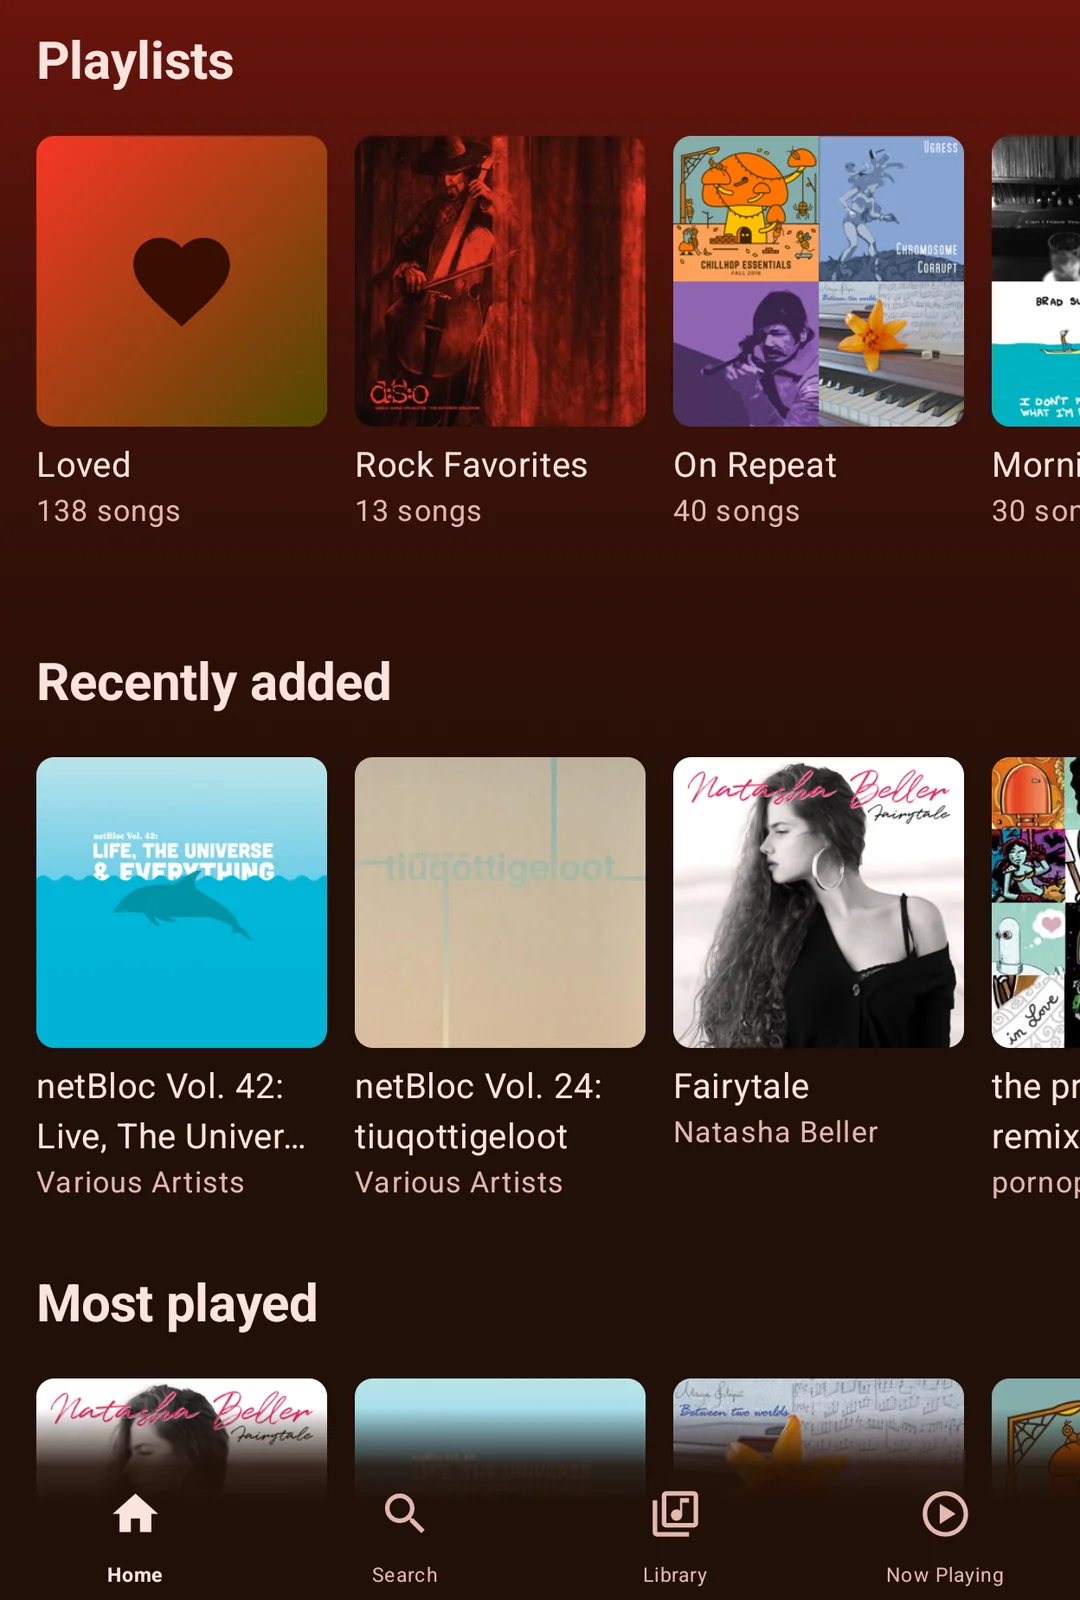
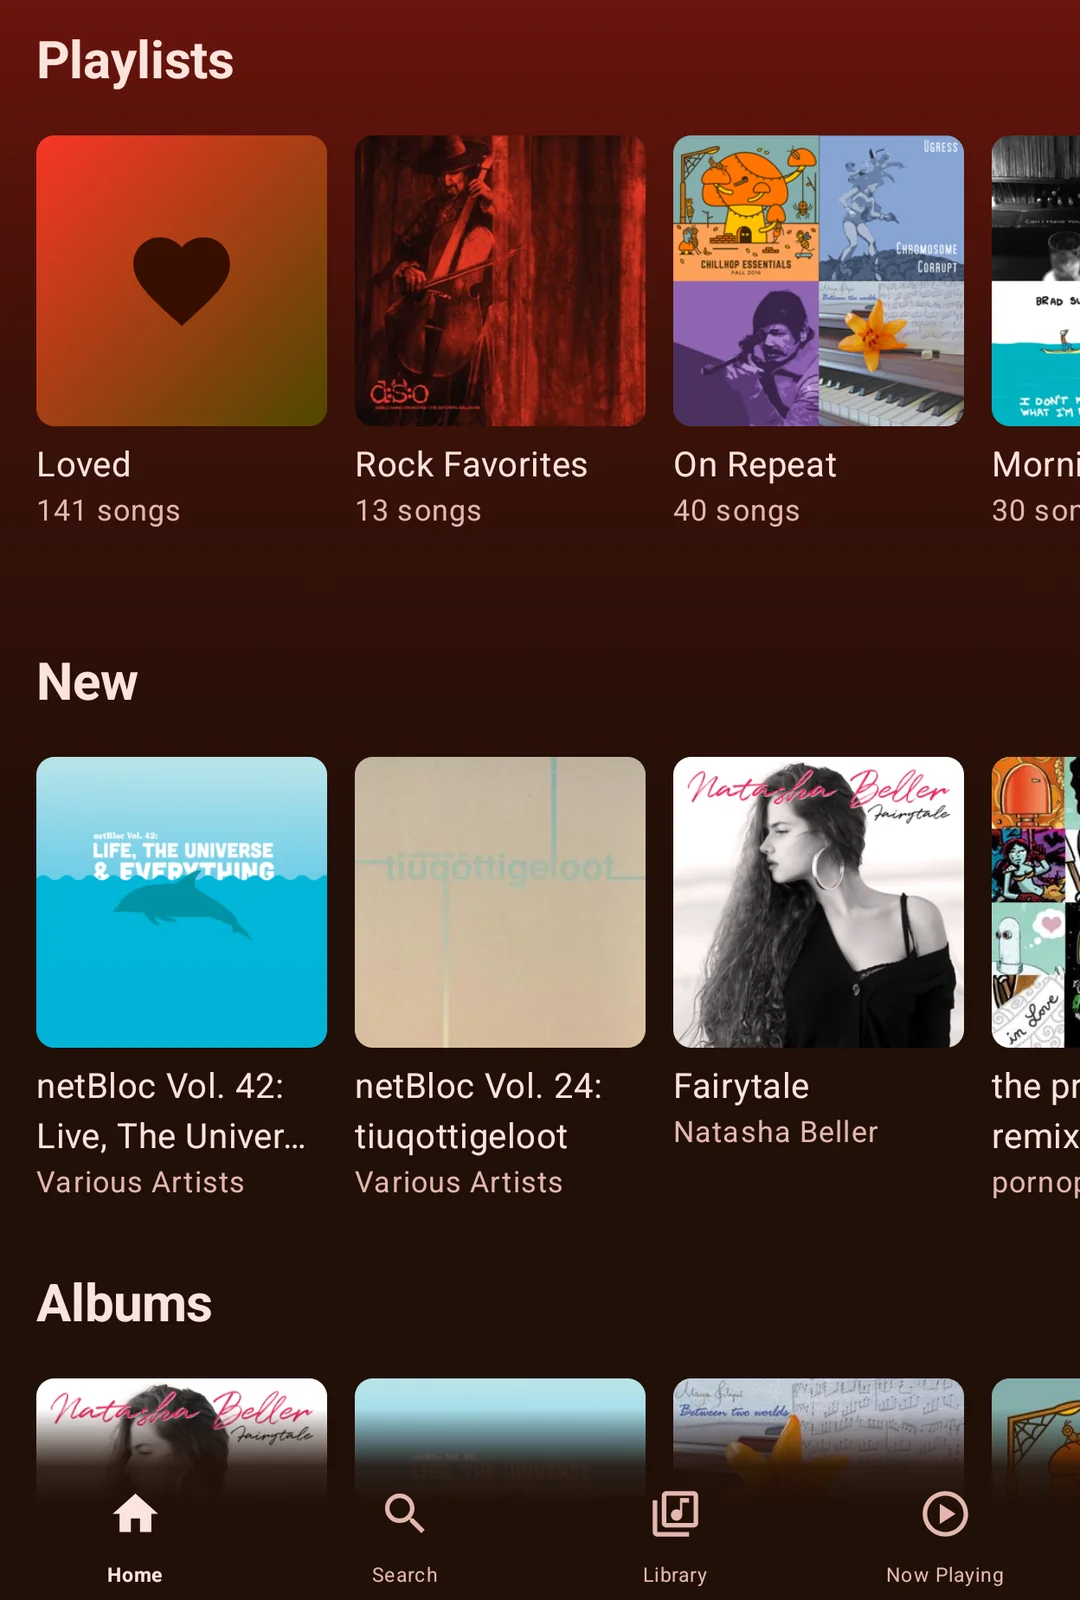
Home rows renamed; album saving removed
Home's shelves are now Playlists, Shared, New, Albums and Artists (the
last three reuse Library's labels; "New" is translated for every
language). The album heart, the Saved albums shelf and Library's
"Recently saved" album sort are gone: downloads, playlists and Loved
already cover keeping music. Album stars stay on the server untouched.
Screenshots 2 and 9 retaken.

diff --git a/app/src/main/java/eu/bradshaw/seidr/ui/screens/HomeScreen.kt b/app/src/main/java/eu/bradshaw/seidr/ui/screens/HomeScreen.kt
@@ -65,10 +65,9 @@ import kotlinx.coroutines.Job
 import kotlinx.coroutines.async
 import kotlinx.coroutines.delay
 import kotlinx.coroutines.flow.collectLatest
-import kotlinx.coroutines.flow.drop
 import kotlinx.coroutines.launch
 
-data class HomeData(val newest: List<Album>, val frequent: List<Album>, val artists: List<Artist>, val starred: List<Album>)
+data class HomeData(val newest: List<Album>, val frequent: List<Album>, val artists: List<Artist>)
 
 /** How many a Home shelf shows; its arrow opens the rest in Library. */
 private const val SHELF = 15
@@ -91,13 +90,6 @@ class HomeVm(private val graph: Graph) : ViewModel() {
                 load(quiet = true)
             }
         }
-        // An album saved or unsaved, here or (via the live feed) elsewhere: just that shelf.
-        viewModelScope.launch {
-            graph.browse.starredAlbums.drop(1).collectLatest {
-                val starred = runCatching { graph.browse.albumList("starred", SHELF) }.getOrNull() ?: return@collectLatest
-                data = data?.copy(starred = starred)
-            }
-        }
     }
 
     /** [quiet]: a live update, so no refresh spinner, and a list that fails keeps what it showed. */
@@ -109,7 +101,7 @@ class HomeVm(private val graph: Graph) : ViewModel() {
             fun list(type: String, size: Int = SHELF) = async { runCatching { graph.browse.albumList(type, size) }.getOrNull() }
             // Artists' plays are their albums' (as Library's Most played sorts them), so
             // fetch well past the albums shelf: enough to rank everyone who's been played.
-            val newest = list("newest"); val frequent = list("frequent", 500); val starred = list("starred")
+            val newest = list("newest"); val frequent = list("frequent", 500)
             val artists = async { runCatching { graph.browse.artists() }.getOrNull() }
             launch { runCatching { graph.browse.refreshPlaylists() } }
             val played = frequent.await()
@@ -121,7 +113,6 @@ class HomeVm(private val graph: Graph) : ViewModel() {
                 newest.await() ?: old?.newest.orEmpty(),
                 played?.take(SHELF) ?: old?.frequent.orEmpty(),
                 topArtists ?: old?.artists.orEmpty(),
-                starred.await() ?: old?.starred.orEmpty(),
             )
             refreshing = false
         }
@@ -140,10 +131,9 @@ fun HomeScreen() {
     val kid by graph.browseKids.rules.collectAsStateWithLifecycle()
     val starred by graph.browse.starredSongs.collectAsStateWithLifecycle()
     val lastLoved by graph.browse.lastLoved.collectAsStateWithLifecycle()
-    val recentlyAdded = stringResource(R.string.home_recently_added)
-    val mostPlayed = stringResource(R.string.home_most_played)
-    val savedAlbums = stringResource(R.string.home_saved_albums)
-    val mostPlayedArtists = stringResource(R.string.home_most_played_artists)
+    val newest = stringResource(R.string.home_new)
+    val mostPlayed = stringResource(R.string.library_tab_albums)
+    val mostPlayedArtists = stringResource(R.string.library_tab_artists)
     val settings = graph.settings
     Column(Modifier.fillMaxSize()) {
         RefreshBox(vm.refreshing && vm.data != null, onRefresh = vm::load, modifier = Modifier.weight(1f)) {
@@ -191,7 +181,7 @@ fun HomeScreen() {
                     }
                 }
                 if (shared.isNotEmpty()) {
-                    item(key = "h:shared") { SectionHeader(stringResource(R.string.home_shared_playlists)) }
+                    item(key = "h:shared") { SectionHeader(stringResource(R.string.library_shared)) }
                     item(key = "s:shared") {
                         val shelf = PlaylistSort.RECENT.sort(shared, lastPlayed, loved = null).filterNotNull().take(SHELF)
                         LazyRow(state = shelfState(shelf.firstOrNull()?.id), contentPadding = PaddingValues(horizontal = 10.dp)) {
@@ -204,7 +194,7 @@ fun HomeScreen() {
                 }
                 // Each arrow opens Library in the shelf's own order.
                 fun albums(sort: AlbumSort) { settings.setAlbumSort(sort); actions.openLibrary(LibTab.ALBUMS) }
-                albumShelf(recentlyAdded, d?.newest.orEmpty(), { actions.open(Route.Album(it)) }) { albums(AlbumSort.ADDED) }
+                albumShelf(newest, d?.newest.orEmpty(), { actions.open(Route.Album(it)) }) { albums(AlbumSort.ADDED) }
                 albumShelf(mostPlayed, d?.frequent.orEmpty(), { actions.open(Route.Album(it)) }) { albums(AlbumSort.PLAYS) }
                 val artists = d?.artists.orEmpty()
                 if (artists.isNotEmpty()) {
@@ -219,7 +209,6 @@ fun HomeScreen() {
                         }
                     }
                 }
-                albumShelf(savedAlbums, d?.starred.orEmpty(), { actions.open(Route.Album(it)) }) { albums(AlbumSort.SAVED) }
             }
         }
     }

diff --git a/app/src/main/java/eu/bradshaw/seidr/ui/screens/AlbumScreen.kt b/app/src/main/java/eu/bradshaw/seidr/ui/screens/AlbumScreen.kt
@@ -4,11 +4,6 @@ import androidx.compose.foundation.clickable
 import androidx.compose.foundation.layout.aspectRatio
 import androidx.compose.foundation.layout.padding
 import androidx.compose.foundation.lazy.itemsIndexed
-import androidx.compose.material.icons.Icons
-import androidx.compose.material.icons.filled.Favorite
-import androidx.compose.material.icons.filled.FavoriteBorder
-import androidx.compose.material3.Icon
-import androidx.compose.material3.IconButton
 import androidx.compose.material3.MaterialTheme
 import androidx.compose.material3.Text
 import androidx.compose.runtime.Composable
@@ -76,13 +71,10 @@ fun AlbumScreen(id: String) {
     val graph = actions.graph
     val vm = viewModel(key = "album:$id") { AlbumVm(graph, id) }
     val ui by graph.player.ui.collectAsStateWithLifecycle()
-    val starredAlbums by graph.browse.starredAlbums.collectAsStateWithLifecycle()
 
     LoadContent(vm.state, vm::load) { album ->
         val songs = album.song
         val discs = songs.mapNotNull { it.discNumber }.distinct().size > 1
-        val saved = album.id in starredAlbums
-        val unreachable = stringResource(R.string.album_unreachable)
         // Albums take Now Playing's colours from the cover; playlists and artists keep the theme.
         ArtPage(album.coverArt) { CollectionLayout(
             title = album.name,
@@ -104,16 +96,6 @@ fun AlbumScreen(id: String) {
             onPlay = { graph.albumPlays.record(album); actions.player.playContext(songs, 0, album.name, shuffle = false) },
             offline = OfflineSource(SourceType.sourceId(SourceType.ALBUM, album.id), SourceType.ALBUM, album.id, album.name, coverArt = album.coverArt),
             trackCount = songs.size,
-            topActions = {
-                if (!graph.readOnly) IconButton(onClick = {
-                    actions.launch {
-                        if (!graph.browse.setAlbumStarred(album.id, !saved)) actions.toast(unreachable)
-                    }
-                }) {
-                    Icon(if (saved) Icons.Filled.Favorite else Icons.Filled.FavoriteBorder, stringResource(if (saved) R.string.album_remove_from_library else R.string.album_save_to_library),
-                        tint = if (saved) MaterialTheme.colorScheme.primary else MaterialTheme.colorScheme.onSurface)
-                }
-            },
         ) {
             var lastDisc: Int? = null
             songs.forEachIndexed { i, song ->

diff --git a/app/src/main/java/eu/bradshaw/seidr/data/LibrarySort.kt b/app/src/main/java/eu/bradshaw/seidr/data/LibrarySort.kt
@@ -50,16 +50,9 @@ enum class PlaylistSort(val key: String) {
 data class LovedAt(val played: Long?, val lastLoved: String?)
 
 enum class AlbumSort(val key: String) {
-    NAME("name"), ARTIST("artist"), ADDED("added"), YEAR("year"), PLAYS("plays"),
-    /** Most recently saved first, then the rest. */
-    SAVED("saved");
+    NAME("name"), ARTIST("artist"), ADDED("added"), YEAR("year"), PLAYS("plays");
 
-    /**
-     * [saved]: the albums saved now (`Library.starredAlbums`), which beats each
-     * album's own `starred` (the all-albums list is cached, so it can be stale).
-     * Empty means not known yet, so `starred` alone decides.
-     */
-    fun sort(albums: List<Album>, saved: Set<String> = emptySet()): List<Album> {
+    fun sort(albums: List<Album>): List<Album> {
         val artist = nameOrder<Album> { it.artistLine }
         val name = nameOrder<Album> { it.name }
         val rest = artist.then(name)
@@ -70,14 +63,6 @@ enum class AlbumSort(val key: String) {
                 ADDED -> compareByDescending<Album> { it.created.orEmpty() }.then(rest)
                 YEAR -> compareByDescending<Album> { it.year ?: 0 }.then(rest)
                 PLAYS -> compareByDescending<Album> { it.playCount ?: 0L }.then(rest)
-                SAVED -> compareByDescending<Album> {
-                    when {
-                        saved.isEmpty() -> it.starred.orEmpty()
-                        it.id !in saved -> ""
-                        // Saved since the list was fetched: newest of all.
-                        else -> it.starred ?: "~"
-                    }
-                }.then(rest)
             }
         )
     }

diff --git a/app/src/main/java/eu/bradshaw/seidr/data/Library.kt b/app/src/main/java/eu/bradshaw/seidr/data/Library.kt
@@ -95,8 +95,6 @@ class Library(
     /** When the newest loved song was loved (ISO 8601), for sorting Loved by "Recently updated". */
     val lastLoved: StateFlow<String?> = _lastLoved.asStateFlow()
 
-    private val _starredAlbums = MutableStateFlow<Set<String>>(emptySet())
-    val starredAlbums: StateFlow<Set<String>> = _starredAlbums.asStateFlow()
 
     private val _playlistEdited = MutableSharedFlow<String>(extraBufferCapacity = 64)
     /**
@@ -248,7 +246,6 @@ class Library(
         val songs = s?.song.orEmpty().sortedByDescending { it.starred ?: "" }
         _starredSongs.value = songs.map { it.id }.toSet()
         _lastLoved.value = songs.firstOrNull()?.starred
-        _starredAlbums.value = s?.album.orEmpty().map { it.id }.toSet()
         return kid?.songs(songs) ?: songs
     }
 
@@ -275,17 +272,6 @@ class Library(
             true
         } catch (e: Exception) {
             _starredSongs.update { if (starred) it - id else it + id }
-            false
-        }
-    }
-
-    suspend fun setAlbumStarred(id: String, starred: Boolean): Boolean {
-        _starredAlbums.update { if (starred) it + id else it - id }
-        return try {
-            if (starred) client.strict.starAlbum(id).ok() else client.strict.unstarAlbum(id).ok()
-            true
-        } catch (e: Exception) {
-            _starredAlbums.update { if (starred) it - id else it + id }
             false
         }
     }
@@ -321,7 +307,6 @@ class Library(
         albumsCache = null
         _starredSongs.value = emptySet()
         _lastLoved.value = null
-        _starredAlbums.value = emptySet()
     }
 }
 

diff --git a/app/src/main/java/eu/bradshaw/seidr/ui/screens/LibraryScreen.kt b/app/src/main/java/eu/bradshaw/seidr/ui/screens/LibraryScreen.kt
@@ -229,7 +229,6 @@ fun LibraryScreen() {
     val playlistSort by graph.settings.playlistsSort.collectAsStateWithLifecycle()
     val artistSort by graph.settings.artistSort.collectAsStateWithLifecycle()
     val albumSort by graph.settings.albumSort.collectAsStateWithLifecycle()
-    val savedAlbums by graph.browse.starredAlbums.collectAsStateWithLifecycle()
     val lastPlayed by graph.playlistPlays.lastPlayed.collectAsStateWithLifecycle()
     var creating by rememberSaveable { mutableStateOf(false) }
     val grid by graph.settings.libraryGrid.collectAsStateWithLifecycle()
@@ -361,7 +360,7 @@ fun LibraryScreen() {
                 LibTab.ALBUMS -> LoadContent(vm.albums, { vm.load(true) }) { all ->
                     val items = all
                         .filter { (!downloadedOnly || SourceType.sourceId(SourceType.ALBUM, it.id) in sources) && matches(it.name, it.artistLine) }
-                        .let { albumSort.sort(it, savedAlbums) }
+                        .let { albumSort.sort(it) }
                         .map { a ->
                             LibItem(a.id, a.name, listOfNotNull(a.artistLine.takeIf { it.isNotBlank() }, a.year?.toString()).joinToString(" · "),
                                 gridSubtitle = a.artistLine,

diff --git a/app/src/test/java/eu/bradshaw/seidr/data/LibrarySortTest.kt b/app/src/test/java/eu/bradshaw/seidr/data/LibrarySortTest.kt
@@ -47,19 +47,6 @@ class LibrarySortTest {
         assertEquals(listOf("a1", "b1", "b2"), AlbumSort.ARTIST.sort(albums).map { it.id })
     }
 
-    @Test fun savedTrustsTheLiveSetOverTheCachedList() {
-        val list = listOf(
-            Album("old", name = "A", starred = "2024-01-01T00:00:00Z"),
-            Album("new", name = "B", starred = "2026-01-01T00:00:00Z"),
-            Album("unsaved", name = "C", starred = "2026-06-01T00:00:00Z"),
-            Album("just", name = "D"),
-            Album("never", name = "E"),
-        )
-        assertEquals(listOf("just", "new", "old", "unsaved", "never"),
-            AlbumSort.SAVED.sort(list, saved = setOf("old", "new", "just")).map { it.id })
-        assertEquals(listOf("unsaved", "new", "old", "just", "never"), AlbumSort.SAVED.sort(list).map { it.id })
-    }
-
     @Test fun artistPlaysAreTheirAlbums() {
         val artists = listOf(Artist("x", name = "X"), Artist("y", name = "Y"))
         val plays = ArtistSort.plays(listOf(Album("1", artistId = "y", playCount = 2), Album("2", artistId = "y", playCount = 2), Album("3", artistId = "x", playCount = 3)))

diff --git a/app/src/main/java/eu/bradshaw/seidr/data/api/SubsonicApi.kt b/app/src/main/java/eu/bradshaw/seidr/data/api/SubsonicApi.kt
@@ -81,8 +81,6 @@ interface SubsonicApi {
 
     @FormUrlEncoded @POST("star.view") suspend fun star(@Field("id") id: String): Envelope
     @FormUrlEncoded @POST("unstar.view") suspend fun unstar(@Field("id") id: String): Envelope
-    @FormUrlEncoded @POST("star.view") suspend fun starAlbum(@Field("albumId") id: String): Envelope
-    @FormUrlEncoded @POST("unstar.view") suspend fun unstarAlbum(@Field("albumId") id: String): Envelope
 
     @FormUrlEncoded @POST("scrobble.view")
     suspend fun scrobble(@Field("id") id: String, @Field("time") time: Long, @Field("submission") submission: Boolean): Envelope

diff --git a/app/src/main/java/eu/bradshaw/seidr/ui/components/SortButton.kt b/app/src/main/java/eu/bradshaw/seidr/ui/components/SortButton.kt
@@ -44,7 +44,6 @@ fun AlbumSort.label(): Int = when (this) {
     AlbumSort.ADDED -> R.string.library_sort_added
     AlbumSort.YEAR -> R.string.library_sort_year
     AlbumSort.PLAYS -> R.string.library_sort_most_played
-    AlbumSort.SAVED -> R.string.library_sort_saved
 }
 
 fun ArtistSort.label(): Int = when (this) {

diff --git a/CHANGELOG.md b/CHANGELOG.md
@@ -6,6 +6,8 @@ them, not how.
 
 ## 1.6.13
 
+- Home's rows have shorter names: Playlists, Shared, New, Albums and Artists.
+- Albums no longer have a heart of their own, and Home's Saved albums row is gone. To keep an album, download it or add it to a playlist; Loved songs are unchanged.
 - Swiping back from an album, the navigation bar's colours now follow the page as it slides away.
 - On the Fold's inner screen and other wide screens, swiping back from an album, artist or playlist now slides the page away with your finger.
 - Swiping back from Search or Library to Home now slides the page away too, and so does going back from Log in.
